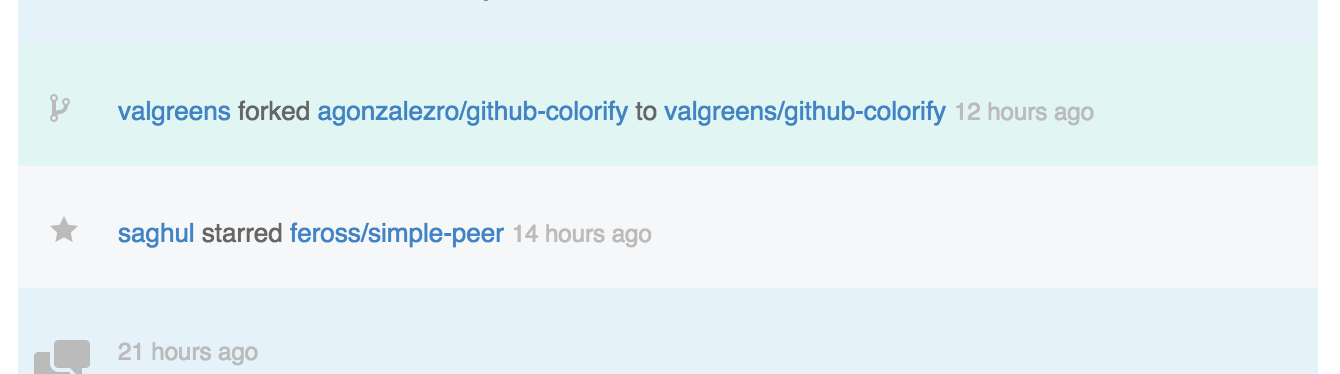
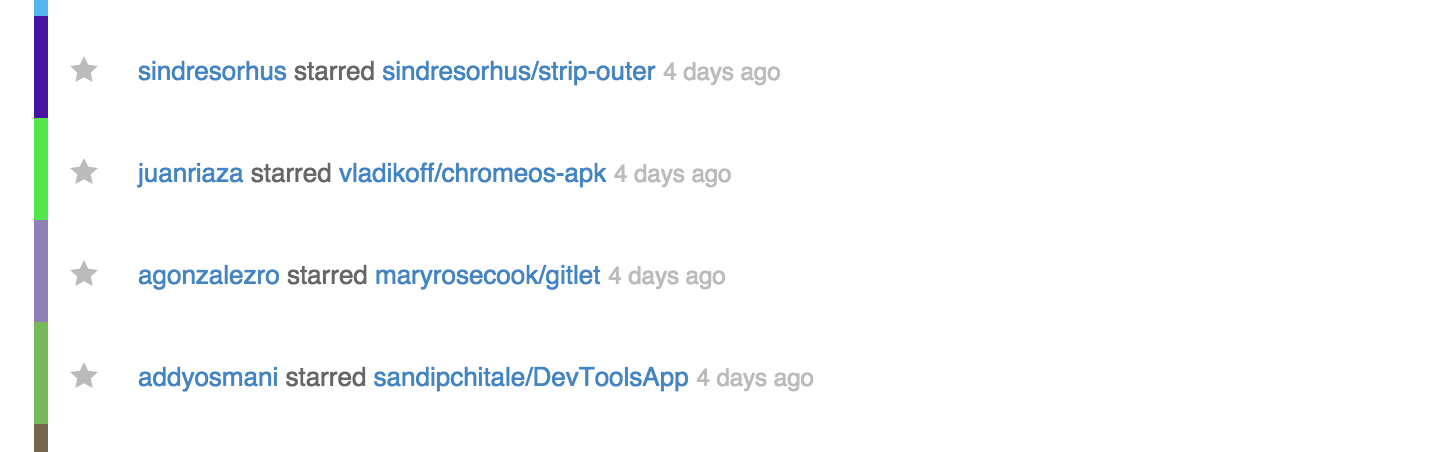
Improved JS code architecture in the extension and added a random color generator. Removed jQuery dependency.

diff --git a/colorify.js b/colorify.js
@@ -1,53 +1,63 @@
-BGCOLORS = [
-  "#e1f6f2", "#e5f2fa", "#f2eaf6", "#fdf7e0", "#fce8e6", "#f6f7f8"
-]
+(function (document, chrome) {
 
-function colorify() {
-  var previousColor;
+  var colorify = {};
 
-  $(".alert").each(function(_, e) {
-    var project = getProjectName(e);
-    var color = getColorForProject(project, previousColor);
-    previousColor = color;
+  colorify.init = function () {
+    var self = this;
 
-    e.style.backgroundColor = color;
-    e.style.paddingTop = "5px";
-    e.style.border = "5px solid " + color;
-  });
-}
-
-function getProjectName(e) {
-  name = $(e).find('.title > a:last').text().split('#')[0];
-  return name.split('@')[0];
-}
-
-function getColorForProject(project, previousColor) {
-  if (!(project in colors)) {
-    var color = BGCOLORS[Math.floor(Math.random() * BGCOLORS.length)];
-    if (color == previousColor) {
-      return getColorForProject(project, previousColor);
-    }
-    colors[project] = color;
-    chrome.storage.sync.set({"colors": colors});
-  }
-  return colors[project];
-}
-
-function assignEvents() {
-  $(document).ready(function() {
-    $(".js-events-pagination").click(function() {
-      setTimeout(function() { colorify(); assignEvents(); }, 1000)
+    chrome.storage.sync.get('colors', function(result) {
+      if (Object.keys.call(null, result).length !== 0) {
+        self.colors = result.colors;
+      } else {
+        self.colors = {};
+      }
     });
-  });
-}
 
-if (document.title === "GitHub") {
-  var colors = {};
-  chrome.storage.sync.get("colors", function(result) {
-    if (Object.keys.call(null, result).length !== 0) {
-      colors = result.colors;
+    document.onreadystatechange = function () {
+      if (document.readyState == "complete") {
+        self.paint();
+        document.querySelector('.js-events-pagination').onclick = function () {
+          setTimeout(function () {
+            self.paint();
+          }, 1000);
+        }
+      }
     }
-    colorify();
-  });
-  assignEvents();
-}
+  };
+
+  colorify.paint = function () {
+    var self = this,
+        previousColor;
+
+    [].forEach.call(document.querySelectorAll('.alert'), function (element) {
+      var project = self.getProjectName(element),
+          color = self.getColorForProject(project, previousColor);
+      console.log(color, project);
+      previousColor = color;
+      element.style.paddingTop = '5px';
+      element.style.borderLeft = '7px solid #' + color;
+      element.style.borderTop = '0';
+    });
+  };
+
+  colorify.getProjectName = function (element) {
+    var link = [].pop.call(element.getElementsByClassName('title')[0].getElementsByTagName('a'));
+
+    return link.innerHTML.split('#')[0].split('@')[0];
+  };
+
+  colorify.getColorForProject = function (project, previousColor) {
+    if (!(project in this.colors)) {
+      var color = ('00000' + (Math.random() * (1 << 24) | 0).toString(16)).slice(-6);
+      if (color === previousColor) {
+        return this.getColorForProject(project, previousColor);
+      }
+      this.colors[project] = color;
+      chrome.storage.sync.set({'colors': this.colors});
+    }
+    return this.colors[project];
+  };
+
+  colorify.init();
+
+})(document, chrome);

diff --git a/README.md b/README.md
@@ -26,11 +26,10 @@ to:
 TODO
 ----
 
-- Add MOAAAAAAAAAAARRR nice colors!
 - Improve the CSS applied a little bit.
 - Allow configuration for the "seen" projects background color.
 - Allow configuration for the list of colors.
-- Calculate the color instead set a random one?
+- Improve color load for projects when clicking on 'more' button
 
 Acknowledges
 ------------
